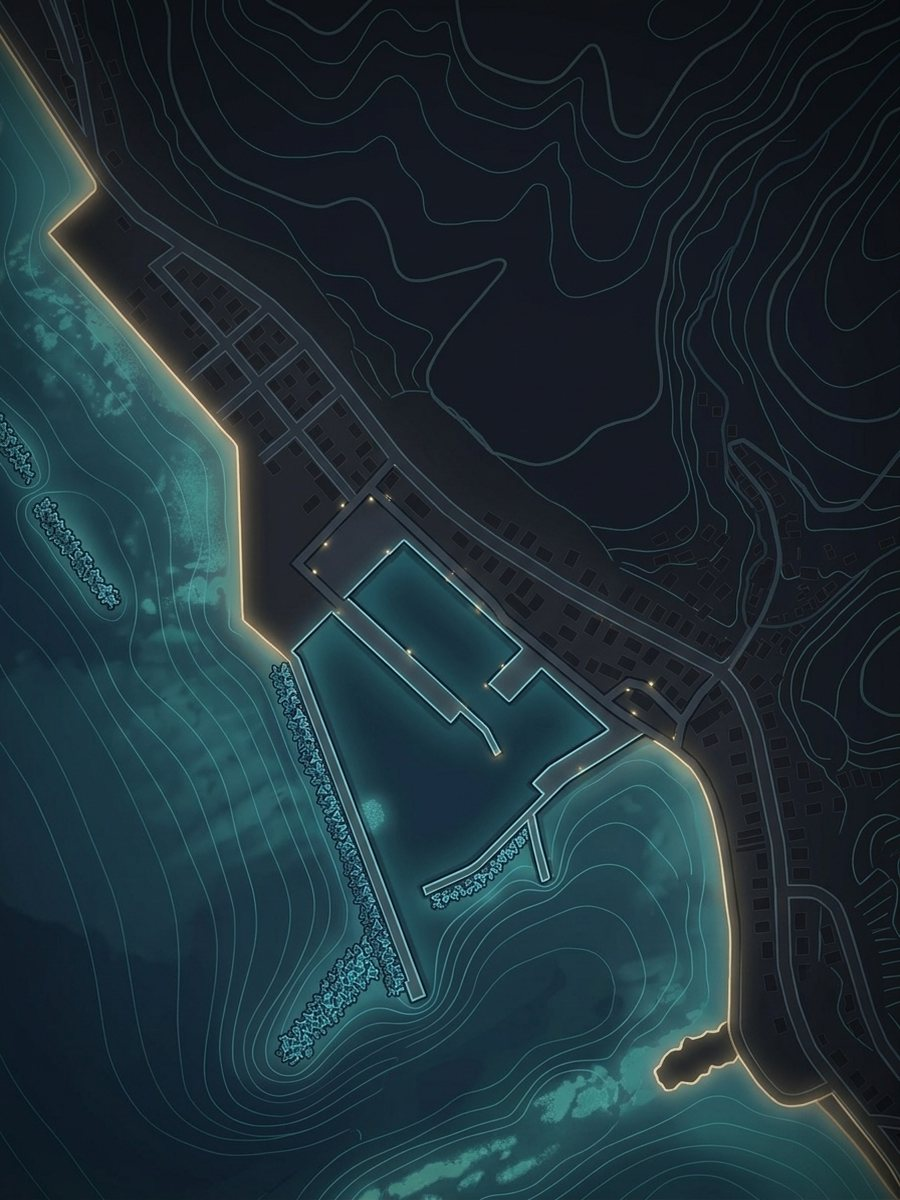
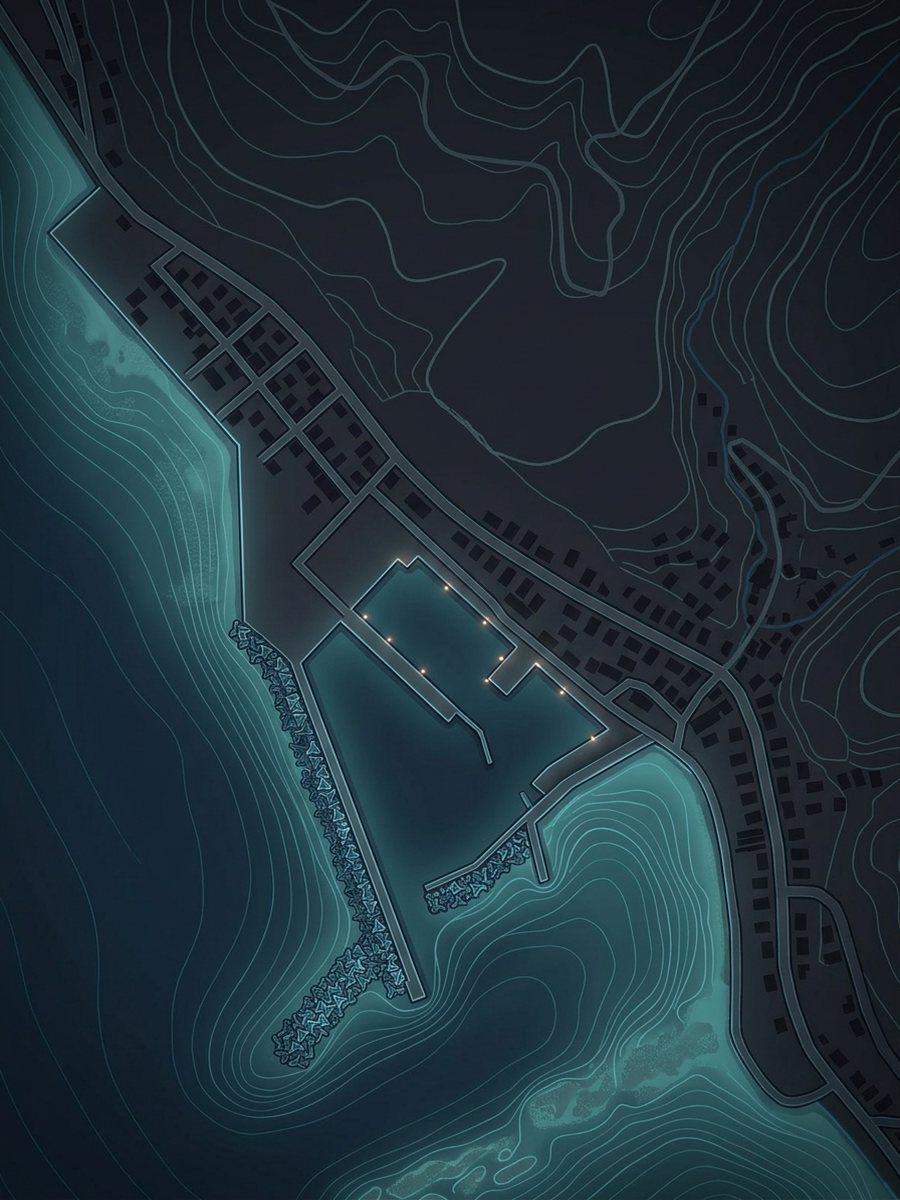
L46: 道南の港の海図を 105 港に（全港を生成、崩れた 4 港は作り直し）
Claude-Session: https://claude.ai/code/session_01UYc4jCZAzEFFPiByHr3rU2

diff --git a/docs/03_loop_plan.md b/docs/03_loop_plan.md
@@ -445,7 +445,7 @@ F-12（手入力サイズ）、F-15（針ロスト・根掛かりマップの完
 受け入れ条件
 - [x] 開発者に予想図を見せて方向を確認（`docs/ui/chart_preview.jpg`。A/B 案 → 情報を増やした海図案 →「この方向でいい」）
 - [x] Core：`PortChart`（緯度経度 ↔ 絵の位置、水面の網目）、`PortChartCatalog`（同梱の索引）、`CastPredictor`（投げる場所の見立て）。`swift test` 緑
-- [x] 港の海図：`scripts/port_charts/` で道南の港を生成（函館・鹿部・森・八雲に近い順、`gemini-3.1-flash-image`、水面の重なり 0.68 以上だけ採用）。CHART_COUNT 港を同梱
+- [x] 港の海図：`scripts/port_charts/` で道南の港を生成（函館・鹿部・森・八雲に近い順、`gemini-3.1-flash-image`、水面の重なり 0.68 以上だけ採用）。道南 105 港すべてを同梱（予算内で完走。目で検査して崩れた 4 港は作り直し）
 - [x] App：`ChartHomeView`（待機中／釣行中）、`ChartMapView`（港の絵・風の流れ・見立て・釣果・現在地・風向の計器）、`ChartForecastStrip`（9 時間先。なぞるとその時刻に）、ロスト・撮影・終了（長押し）、「≡」からログ・図鑑・釣り場・釣果情報・相談・設定
 - [x] 海図の無い港は Apple の地図に落とす。設定 > 画面とテーマ でこれまでの画面に戻せる。出典（地理院タイル）を 設定 > 情報源 に
 - [ ] ios-build 緑 → TestFlight へ配信
